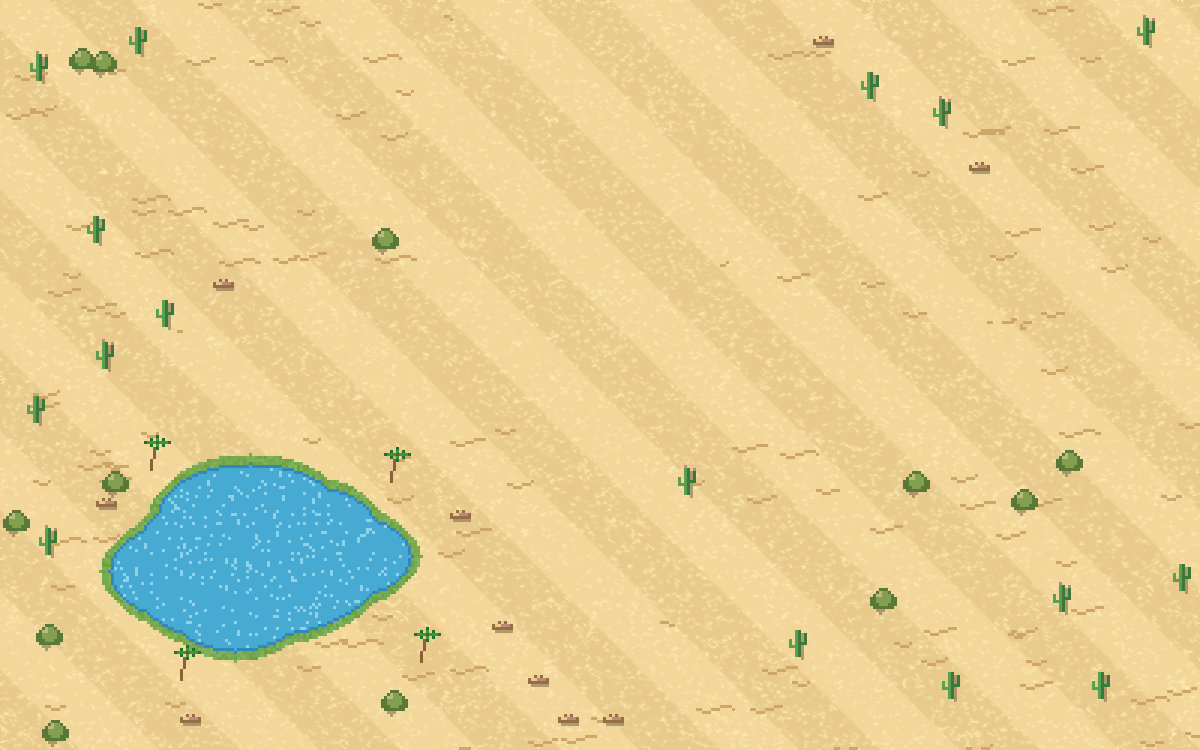
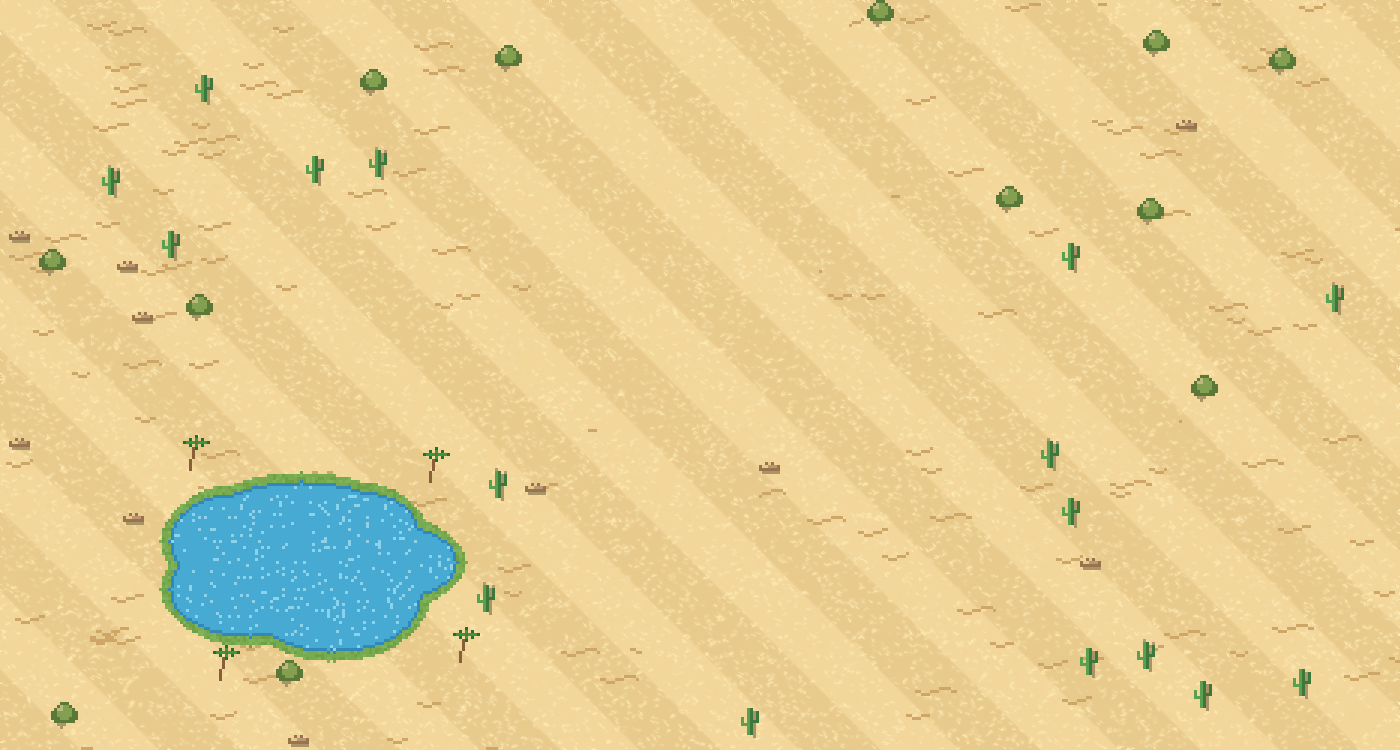
Regenerate biome backgrounds for the 1400px-wide layout
Matches the widened canvas and recentered paths, animal, and signs
from "update outer part".

diff --git a/scripts/generate_biome_backgrounds.py b/scripts/generate_biome_backgrounds.py
@@ -12,28 +12,28 @@ from PIL import Image, ImageDraw, ImageFilter
 public_dir = os.path.join(os.path.dirname(os.path.abspath(__file__)), "..", "public", "assets", "biomes")
 os.makedirs(public_dir, exist_ok=True)
 
-W, H = 1200, 750
+W, H = 1400, 750
 P = 3  # size of one "art pixel" for scenery
 
 # Walkable path rectangles per biome (mirrors buildMaximalistBiomeRoom)
 PATHS = {
-    "lake": [(160, 340, 1100, 70), (560, 140, 80, 480)],
-    "grasslands": [(-60, 340, 1100, 70), (560, 140, 80, 480)],
-    "forest": [(560, 140, 80, 670), (200, 340, 800, 70)],
-    "tundra": [(560, 140, 80, 670), (200, 340, 800, 70)],
-    "desert": [(560, -60, 80, 710), (200, 340, 800, 70)],
-    "reefs": [(560, -60, 80, 710), (200, 340, 800, 70)],
+    "lake": [(160, 340, 1300, 70), (660, 140, 80, 480)],
+    "grasslands": [(-60, 340, 1300, 70), (660, 140, 80, 480)],
+    "forest": [(660, 140, 80, 670), (240, 340, 920, 70)],
+    "tundra": [(660, 140, 80, 670), (240, 340, 920, 70)],
+    "desert": [(660, -60, 80, 710), (240, 340, 920, 70)],
+    "reefs": [(660, -60, 80, 710), (240, 340, 920, 70)],
 }
 
 # Areas kept clear of scenery: animal, quest sign, exit signs
-COMMON_KEEPOUT = [(500, 250, 200, 160), (430, 130, 340, 100)]
+COMMON_KEEPOUT = [(600, 250, 200, 160), (530, 130, 340, 100)]
 EXIT_KEEPOUT = {
-    "lake": [(1040, 330, 160, 90)],
-    "grasslands": [(0, 330, 160, 90)],
-    "forest": [(470, 670, 260, 80)],
-    "tundra": [(470, 670, 260, 80)],
-    "desert": [(470, 0, 260, 80)],
-    "reefs": [(470, 0, 260, 80)],
+    "lake": [(1220, 330, 180, 90)],
+    "grasslands": [(0, 330, 170, 90)],
+    "forest": [(570, 670, 260, 80)],
+    "tundra": [(570, 670, 260, 80)],
+    "desert": [(570, 0, 260, 80)],
+    "reefs": [(570, 0, 260, 80)],
 }
 
 
@@ -401,7 +401,7 @@ def build_lake(alive):
         g = make_ground((88, 84, 62), (76, 72, 54), (98, 92, 66), 16)
         water, edge, shore, var = (88, 96, 70), (64, 70, 50), (110, 98, 72), (120, 110, 70)
 
-    ponds = [(220, 160, 170, 105), (300, 590, 220, 115), (900, 590, 220, 115), (975, 165, 170, 105)]
+    ponds = [(260, 160, 170, 105), (320, 590, 220, 115), (1080, 590, 220, 115), (1150, 165, 170, 105)]
     for (x, y, rx, ry) in ponds:
         cells = c.blob_cells(x, y, rx, ry)
         c.fill_area(cells, water, edge, rim=shore, rim_width=2, fill_var=var)
@@ -509,7 +509,7 @@ def build_tundra(alive):
         g = make_ground((150, 148, 146), (136, 134, 132), (168, 166, 162), 12, blade_range=(1, 3))
         ice, ice_edge, ice_var = (96, 110, 120), (70, 80, 88), (120, 130, 136)
 
-    for (x, y, rx, ry) in [(260, 560, 170, 90), (950, 190, 150, 80), (930, 590, 140, 80)]:
+    for (x, y, rx, ry) in [(300, 560, 170, 90), (1130, 190, 150, 80), (1110, 590, 140, 80)]:
         cells = c.blob_cells(x, y, rx, ry)
         c.fill_area(cells, ice, ice_edge, fill_var=ice_var)
         c.placed.append((x, y, min(rx, ry)))
@@ -576,13 +576,13 @@ def build_desert(alive):
                 c.px(gx, gy, (206, 166, 104) if alive else (206, 170, 120))
 
     # Oasis: lush pool vs. dried-up bed
-    cells = c.blob_cells(260, 560, 160, 100)
+    cells = c.blob_cells(300, 560, 160, 100)
     if alive:
         c.fill_area(cells, (70, 170, 210), (50, 136, 186), rim=(120, 170, 80), rim_width=3, fill_var=(140, 210, 235))
     else:
         c.fill_area(cells, (176, 132, 86), (150, 110, 72))
         c.cracks(40, (130, 92, 60))
-    c.placed.append((260, 560, 100))
+    c.placed.append((300, 560, 100))
 
     if alive:
         def palm(gx, gy):
@@ -593,7 +593,7 @@ def build_desert(alive):
                 for r in range(1, 5):
                     c.px(top_x + int(math.cos(math.radians(ang)) * r), top_y + int(math.sin(math.radians(ang)) * r * 0.7), (60, 150, 64) if r < 4 else (36, 110, 50))
             c.px(top_x, top_y, (120, 80, 40))
-        for (x, y) in [(150, 470), (390, 480), (180, 680), (420, 660)]:
+        for (x, y) in [(190, 470), (430, 480), (220, 680), (460, 660)]:
             if c.is_free(x, y, 4, spacing=False):
                 palm(x // P, y // P)
                 c.placed.append((x, y, 26))
@@ -617,7 +617,7 @@ def build_reefs(alive):
         g = make_water_ground((84, 112, 122), (76, 102, 112), (130, 150, 156), (60, 80, 88))
         sand, sand_edge = (170, 162, 140), (140, 132, 112)
 
-    for (x, y, rx, ry) in [(250, 175, 150, 100), (950, 580, 210, 120), (260, 590, 180, 100), (970, 170, 160, 100)]:
+    for (x, y, rx, ry) in [(280, 175, 150, 100), (1130, 580, 210, 120), (300, 590, 180, 100), (1150, 170, 160, 100)]:
         cells = c.blob_cells(x, y, rx, ry)
         c.fill_area(cells, sand, sand_edge, fill_var=shade(sand, 14))
 
